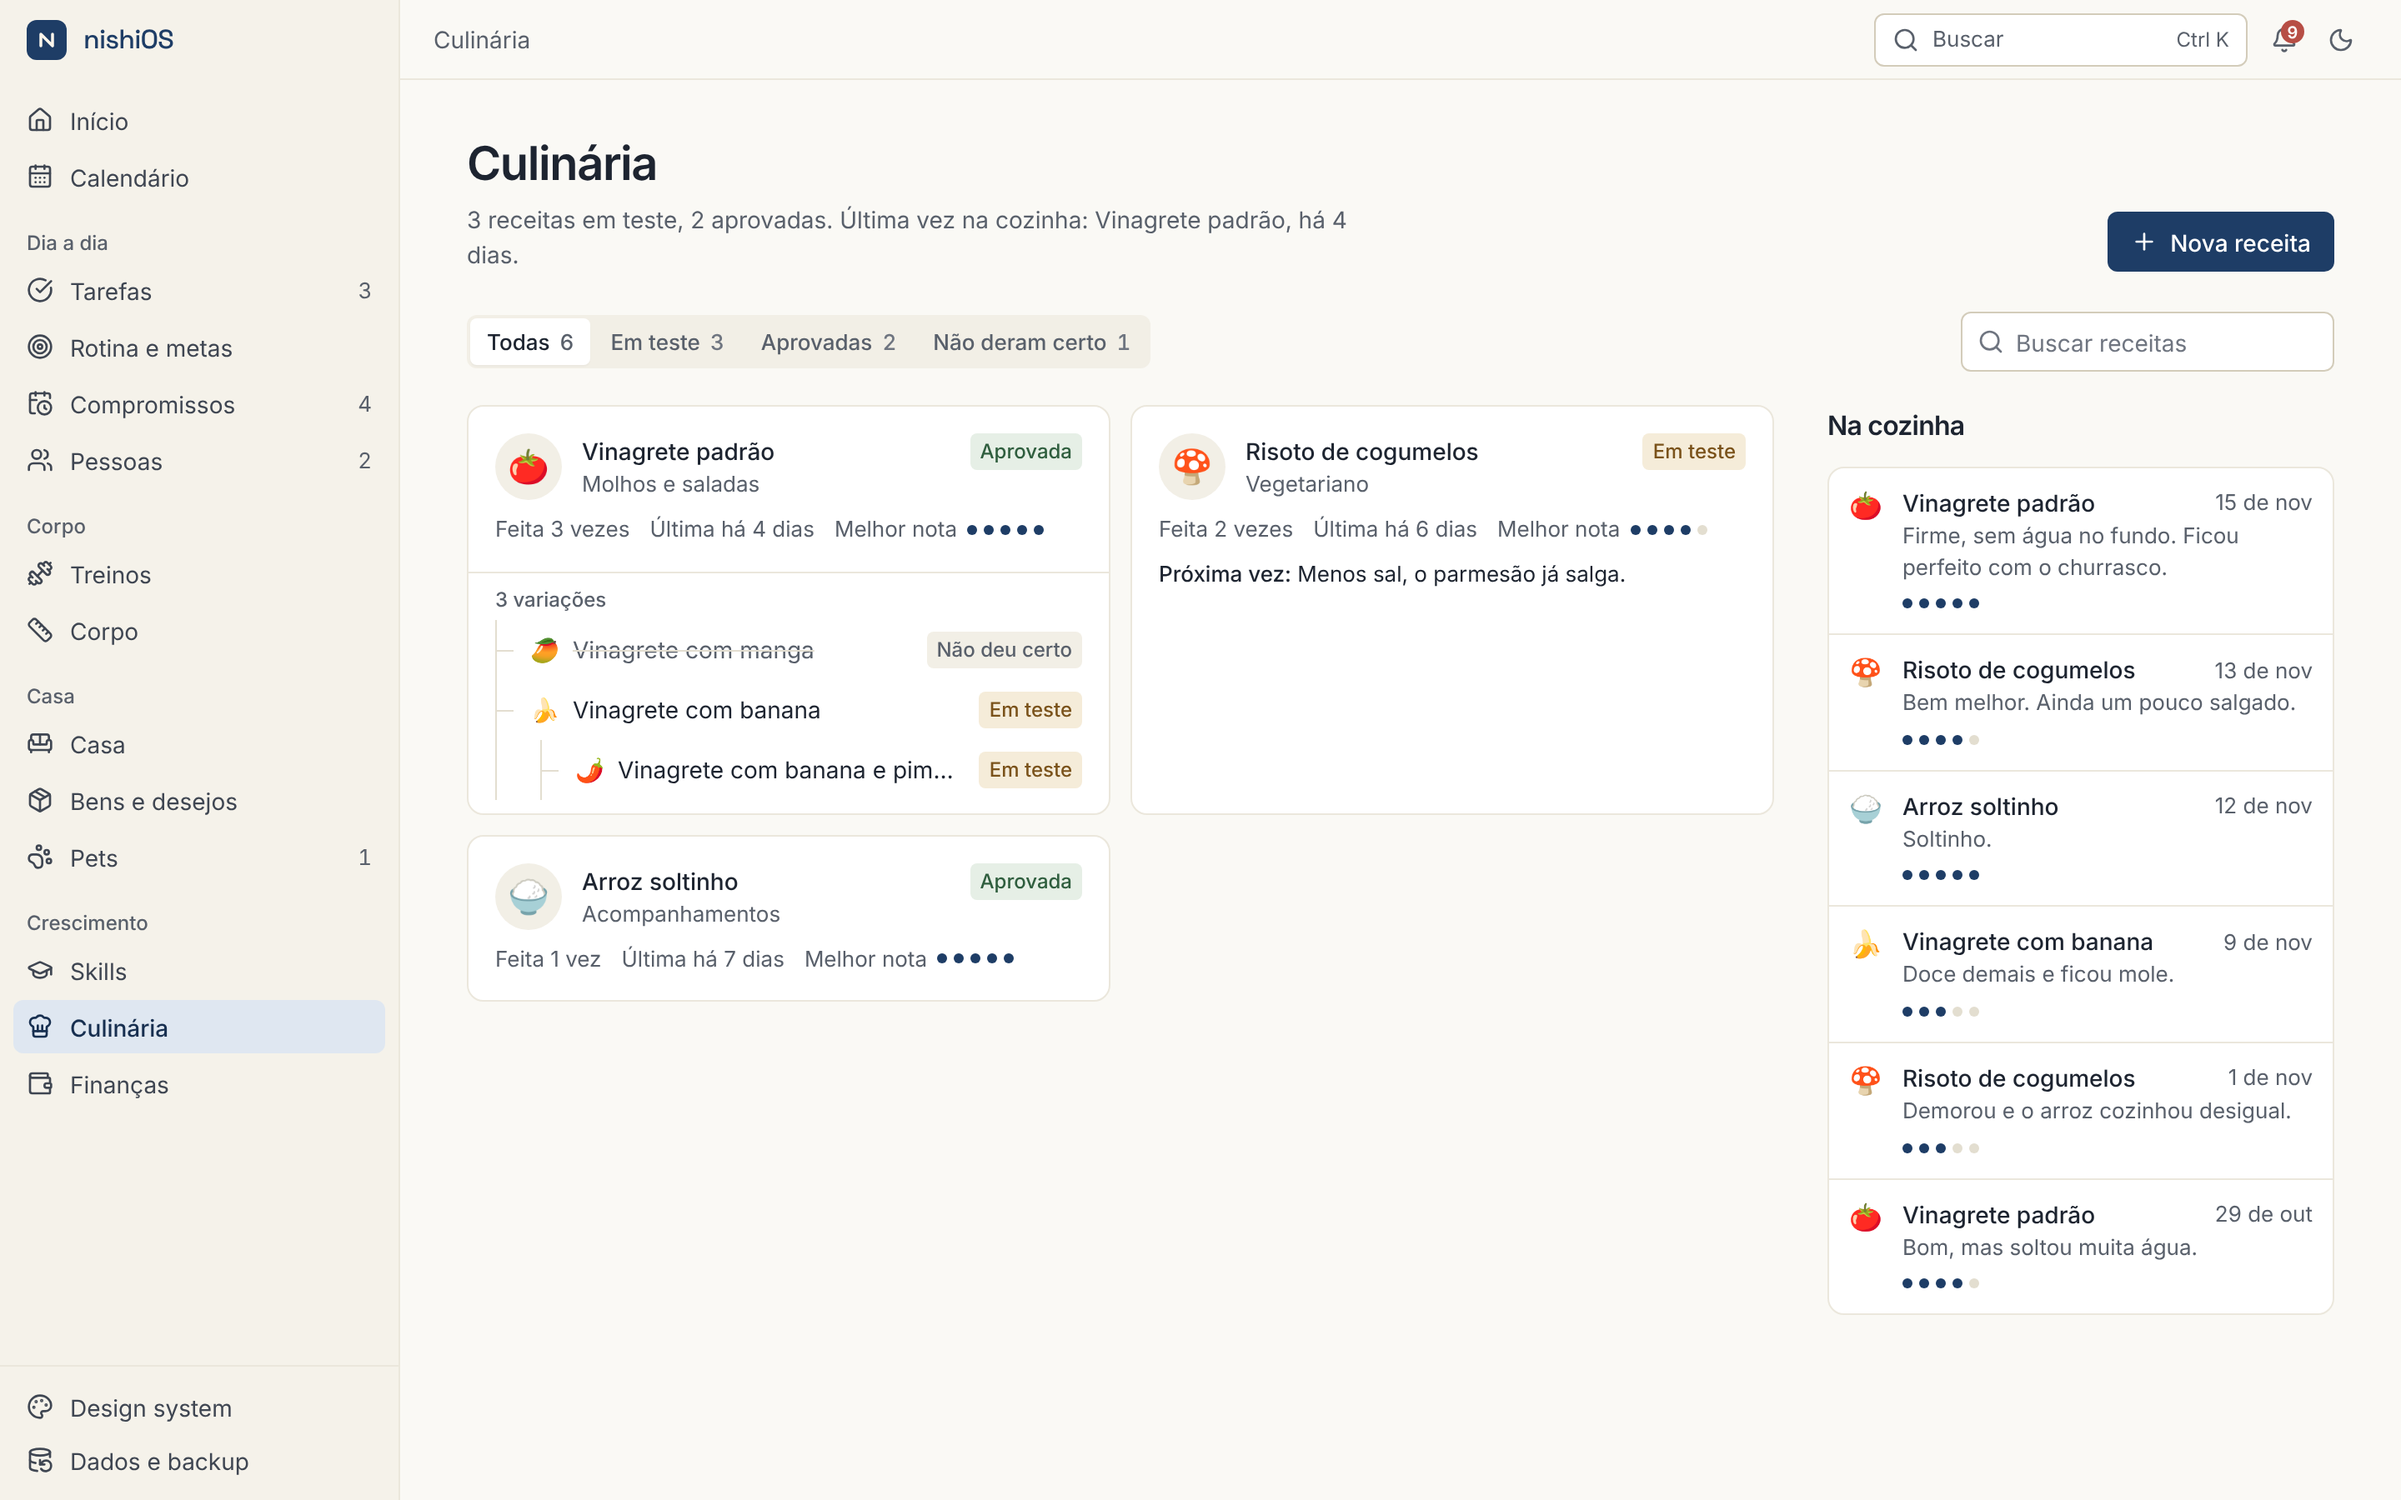
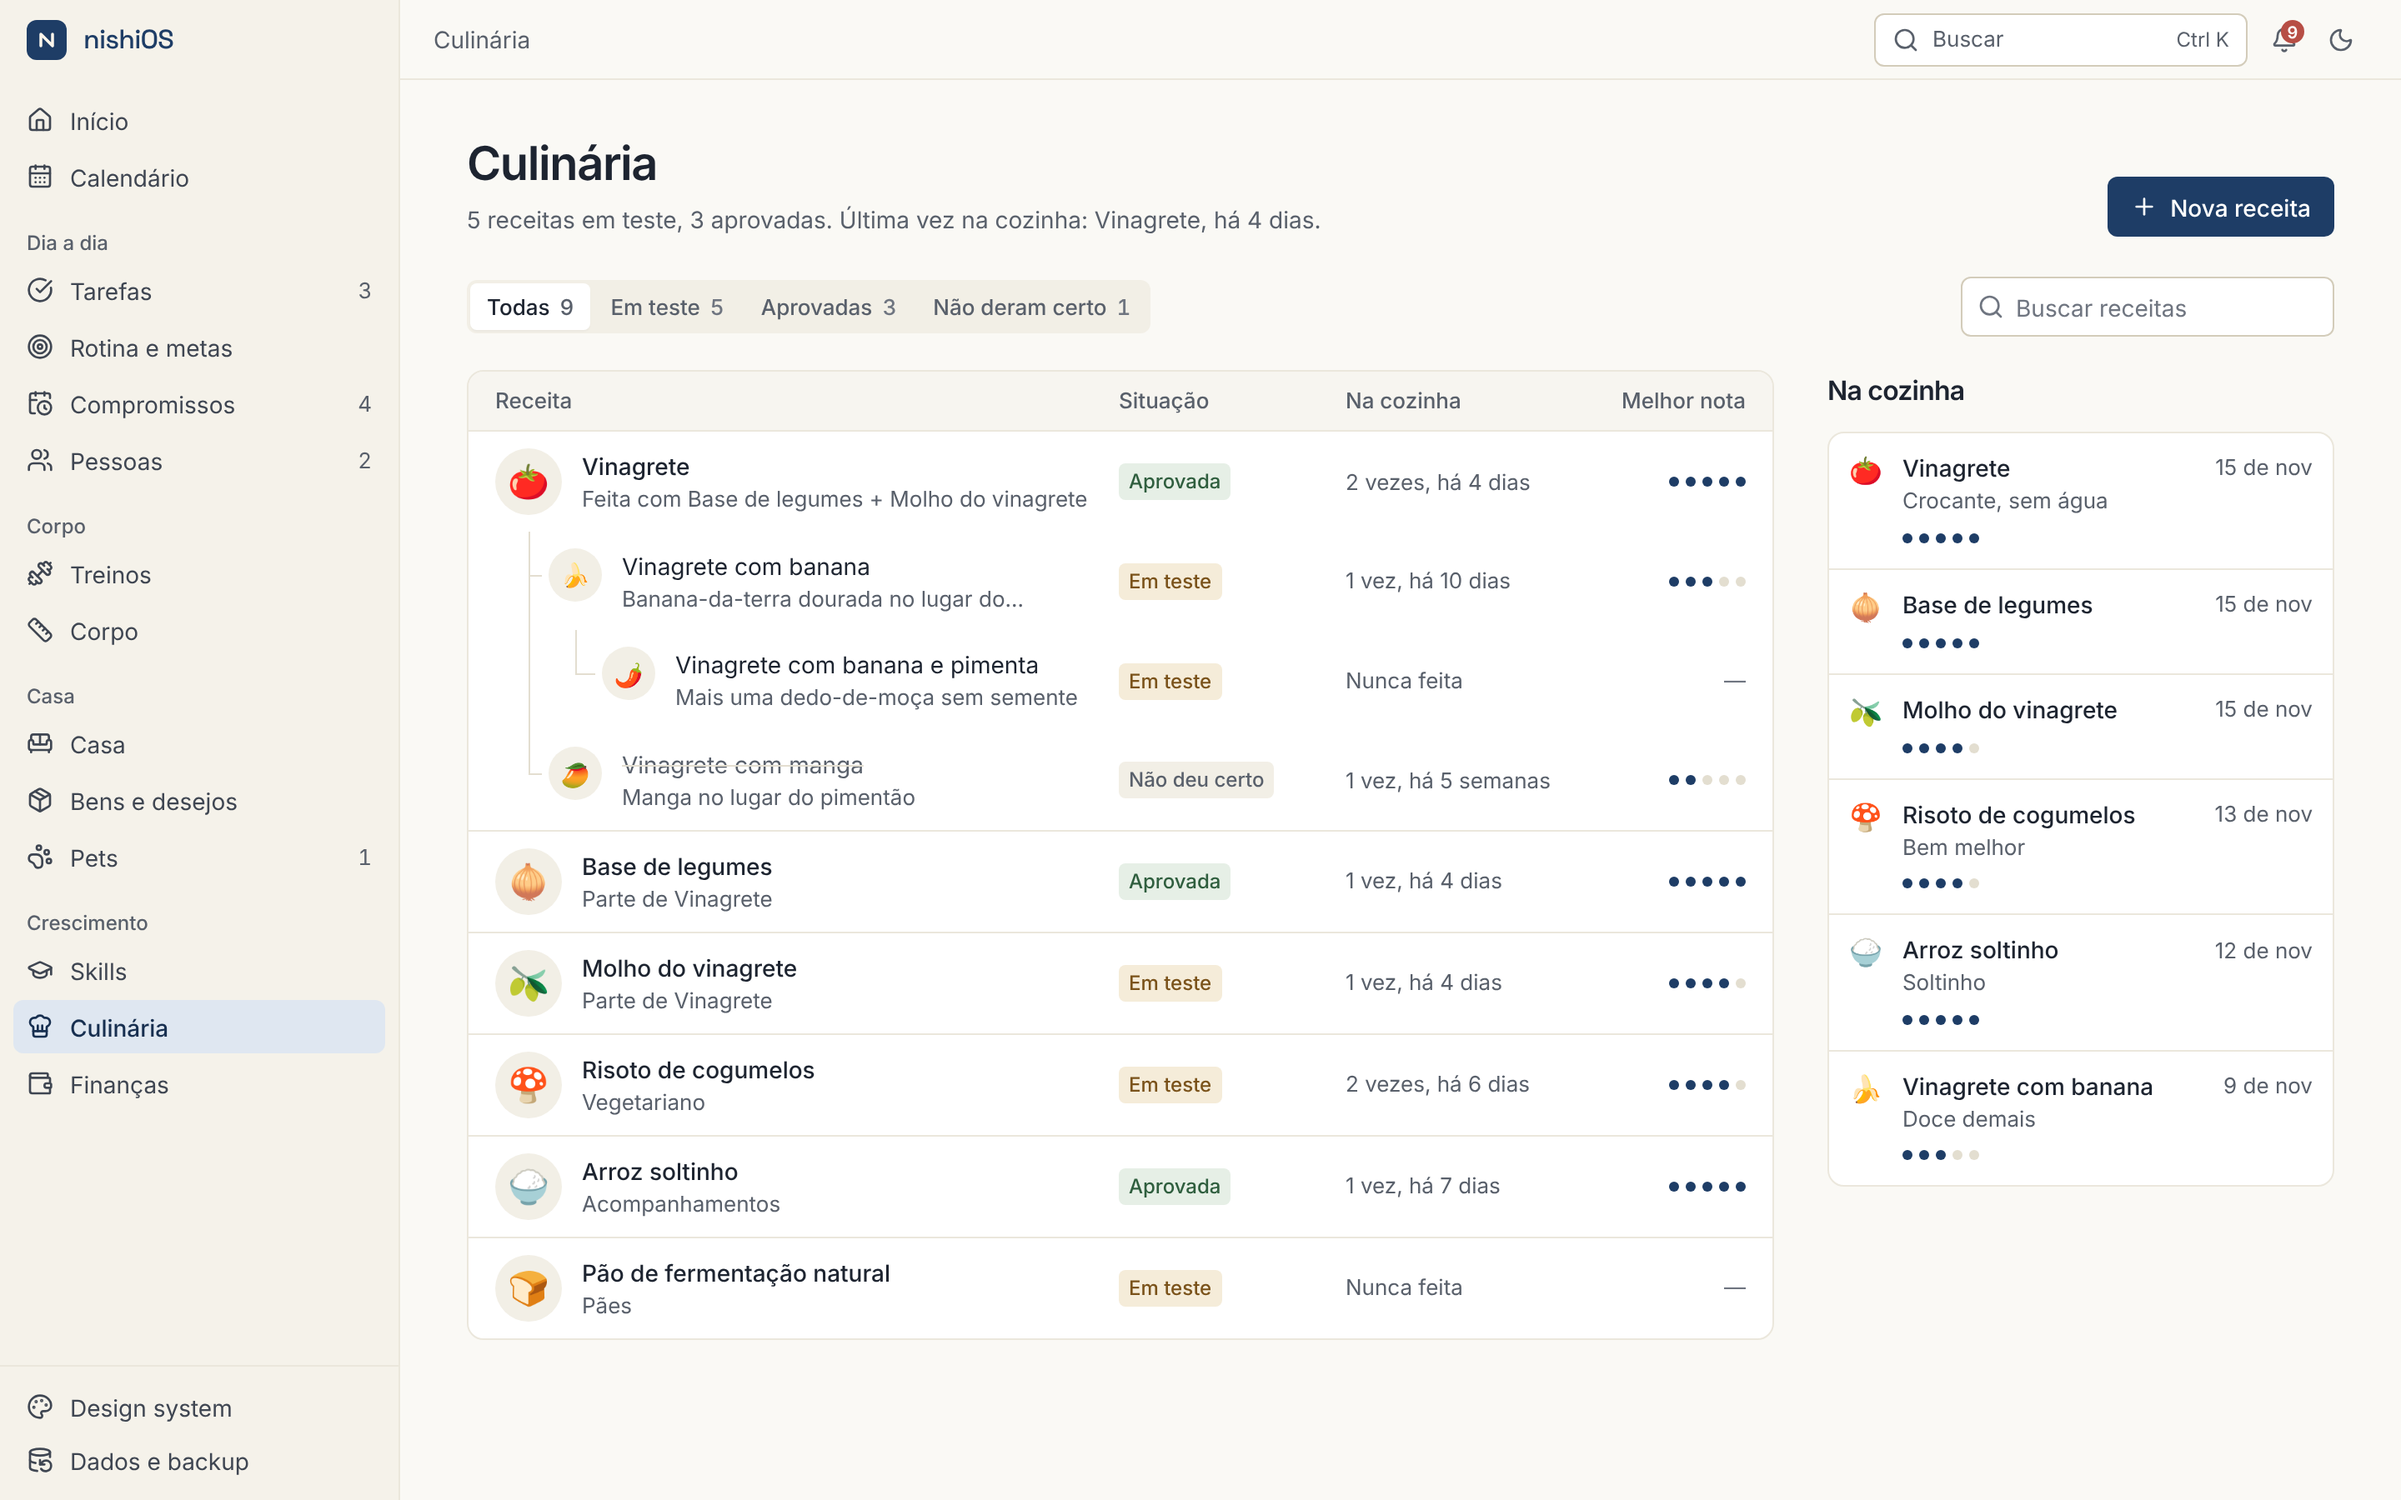
Culinária: lista em tabela, com as variações em árvore dentro de cada receita
Claude-Session: https://claude.ai/code/session_01CPBcsotghdx3fryCDb3DTs

diff --git a/src/modules/culinaria/CulinariaPage.tsx b/src/modules/culinaria/CulinariaPage.tsx
@@ -12,8 +12,7 @@ import { cn } from "@/lib/cn";
 import { shortDate, today } from "@/lib/dates";
 import { plural } from "@/lib/format";
 import { daysAgoLabel } from "@/modules/treinos/logic";
-import { FamilyTree } from "./FamilyTree";
-import { bestRating, family, partsOf, usedIn, lastCooked, matches, nextTip, roots, STATUS_META, STATUS_ORDER } from "./logic";
+import { bestRating, childrenOf, family, lastCooked, matches, partsOf, roots, STATUS_META, STATUS_ORDER, usedIn } from "./logic";
 import { RecipeDetail } from "./RecipeDetail";
 import { StartForm, type StartState } from "./RecipeForms";
 import { useCulinaria } from "./store";
@@ -138,17 +137,11 @@ function RecipeList() {
                 }}
               />
             ) : (
-              <ul className="grid content-start gap-3 xl:grid-cols-2">
-                {shown.map(({ root, members }) => (
-                  <FamilyCard
-                    key={root.id}
-                    root={root}
-                    variations={members.length - 1}
-                    recipes={recipes}
-                    dim={filtering ? (r) => !visible(r) : undefined}
-                  />
-                ))}
-              </ul>
+              <RecipeTable
+                families={shown.map((f) => f.root)}
+                recipes={recipes}
+                dim={filtering ? (r) => !visible(r) : undefined}
+              />
             )}
 
             <aside className="min-w-0">
@@ -197,73 +190,121 @@ function RecipeList() {
   );
 }
 
-function FamilyCard({
-  root,
-  variations,
-  recipes,
-  dim,
-}: {
-  root: Recipe;
-  variations: number;
-  recipes: Recipe[];
-  dim?: (r: Recipe) => boolean;
-}) {
-  const meta = STATUS_META[root.status];
-  const count = root.attempts.length;
-  const last = lastCooked(root);
-  const best = bestRating(root);
-  const tip = nextTip(root);
-  const parts = partsOf(recipes, root);
-  const hosts = usedIn(recipes, root.id);
+interface Row {
+  recipe: Recipe;
+  depth: number;
+  /** Para cada nível acima, se ainda vêm irmãos depois (a linha vertical continua). */
+  rails: boolean[];
+  last: boolean;
+}
+
+/** Cada família vira um bloco: a receita base e, embaixo, as variações em árvore. */
+function flatten(recipes: Recipe[], root: Recipe): Row[] {
+  const rows: Row[] = [];
+  const walk = (r: Recipe, depth: number, rails: boolean[], last: boolean, seen: string[]) => {
+    rows.push({ recipe: r, depth, rails, last });
+    const kids = childrenOf(recipes, r.id).filter((k) => !seen.includes(k.id));
+    kids.forEach((k, i) => walk(k, depth + 1, depth === 0 ? [] : [...rails, !last], i === kids.length - 1, [...seen, r.id]));
+  };
+  walk(root, 0, [], true, []);
+  return rows;
+}
+
+/** Recuo de cada nível e o centro do ícone, em rem, para desenhar as linhas da árvore. */
+const pad = (depth: number) => 1 + depth * 2;
+const center = (depth: number) => pad(depth) + (depth === 0 ? 1.25 : 1);
+
+const COLS = "md:grid-cols-[minmax(0,1fr)_7.5rem_8.5rem_5.5rem]";
+
+function RecipeTable({ families, recipes, dim }: { families: Recipe[]; recipes: Recipe[]; dim?: (r: Recipe) => boolean }) {
   return (
-    <li className="flex min-w-0 flex-col rounded-lg border border-border bg-surface transition-colors duration-(--motion-fast) hover:border-border-strong">
+    <div className="min-w-0 overflow-hidden rounded-lg border border-border bg-surface">
+      <div className={cn("hidden border-b border-border bg-surface-muted/60 px-4 py-2 text-sm font-medium text-muted-foreground md:grid md:gap-4", COLS)}>
+        <span>Receita</span>
+        <span>Situação</span>
+        <span>Na cozinha</span>
+        <span className="text-right">Melhor nota</span>
+      </div>
+      <ul>
+        {families.map((root) => (
+          <li key={root.id} className="border-b border-border last:border-b-0">
+            <ul>
+              {flatten(recipes, root).map((row) => (
+                <RecipeRow key={row.recipe.id} row={row} recipes={recipes} dimmed={dim?.(row.recipe) ?? false} />
+              ))}
+            </ul>
+          </li>
+        ))}
+      </ul>
+    </div>
+  );
+}
+
+function RecipeRow({ row, recipes, dimmed }: { row: Row; recipes: Recipe[]; dimmed: boolean }) {
+  const { recipe: r, depth } = row;
+  const meta = STATUS_META[r.status];
+  const count = r.attempts.length;
+  const last = lastCooked(r);
+  const best = bestRating(r);
+  const parts = partsOf(recipes, r);
+  const hosts = usedIn(recipes, r.id);
+  const discarded = r.status === "discarded";
+  const sub =
+    depth > 0 && r.change
+      ? r.change
+      : parts.length > 0
+        ? `Feita com ${parts.map((p) => p.recipe.name).join(" + ")}`
+        : hosts.length > 0
+          ? `Parte de ${hosts.map((h) => h.name).join(", ")}`
+          : r.category;
+  return (
+    <li>
       <Link
-        to={`/culinaria?r=${root.id}`}
-        className={cn("flex flex-col gap-2 rounded-t-lg p-4 hover:bg-surface-hover", dim?.(root) && "opacity-45", variations === 0 && "rounded-b-lg")}
+        to={`/culinaria?r=${r.id}`}
+        className={cn(
+          "relative grid grid-cols-[minmax(0,1fr)_auto] items-center gap-x-4 gap-y-1 py-2.5 pr-4 transition-colors duration-(--motion-fast) hover:bg-surface-hover",
+          COLS,
+          dimmed && "opacity-45",
+        )}
+        style={{ paddingLeft: `${pad(depth)}rem` }}
       >
-        <span className="flex items-start gap-3">
-          <span className="flex size-10 shrink-0 items-center justify-center rounded-full bg-surface-muted text-xl leading-none">{root.icon}</span>
+        {depth > 0 && (
+          <>
+            {/* Ligação com a receita de cima, como numa árvore; a linha segue enquanto houver irmãs embaixo. */}
+            <span aria-hidden className="absolute top-0 w-px bg-border-strong" style={{ left: `${center(depth - 1)}rem`, height: row.last ? "1.625rem" : "100%" }} />
+            <span aria-hidden className="absolute top-[1.625rem] h-px bg-border-strong" style={{ left: `${center(depth - 1)}rem`, width: `${pad(depth) - center(depth - 1) - 0.25}rem` }} />
+            {row.rails.map((on, i) =>
+              on ? <span key={i} aria-hidden className="absolute inset-y-0 w-px bg-border-strong" style={{ left: `${center(i)}rem` }} /> : null,
+            )}
+          </>
+        )}
+        <span className="flex min-w-0 items-start gap-3">
+          <span
+            className={cn(
+              "flex shrink-0 items-center justify-center rounded-full bg-surface-muted leading-none",
+              depth === 0 ? "size-10 text-xl" : "size-8 text-base",
+            )}
+          >
+            {r.icon}
+          </span>
           <span className="min-w-0 flex-1">
-            <span className="block truncate font-medium">{root.name || "Sem nome"}</span>
-            <span className="block truncate text-sm text-muted-foreground">{root.category}</span>
-          </span>
-          <Badge tone={meta.tone} className="shrink-0">
-            {meta.label}
-          </Badge>
-        </span>
-        <span className="flex flex-wrap items-center gap-x-3 gap-y-1 text-sm text-muted-foreground">
-          <span>{count === 0 ? "Nunca feita" : `Feita ${plural(count, "vez", "vezes")}`}</span>
-          {last && <span>Última {daysAgoLabel(last)}</span>}
-          {best > 0 && (
-            <span className="inline-flex items-center gap-1.5">
-              Melhor nota <LevelDots value={best} label="Melhor nota" />
+            <span className={cn("line-clamp-2 md:line-clamp-1 md:block", depth === 0 && "font-medium", discarded && "text-muted-foreground line-through decoration-border-strong")}>
+              {r.name || "Sem nome"}
             </span>
-          )}
+            <span className="line-clamp-2 text-sm text-muted-foreground md:line-clamp-1">{sub}</span>
+          </span>
         </span>
-        {parts.length > 0 && (
-          <span className="truncate text-sm">
-            <span className="font-medium">Feita com:</span> {parts.map((p) => p.recipe.name).join(" + ")}
-          </span>
-        )}
-        {hosts.length > 0 && (
-          <span className="truncate text-sm text-muted-foreground">Parte de {hosts.map((h) => h.name).join(", ")}</span>
-        )}
-        {tip && (
-          <span className="line-clamp-2 text-sm">
-            <span className="font-medium">Próxima vez:</span> {tip}
-          </span>
-        )}
+        <span className="row-span-2 self-center justify-self-end md:row-span-1 md:justify-self-start">
+          <Badge tone={meta.tone}>{meta.label}</Badge>
+        </span>
+        <span className={cn("col-start-1 truncate text-sm text-muted-foreground md:col-start-auto md:pl-0", depth === 0 ? "pl-[3.25rem]" : "pl-[2.75rem]")}>
+          {count === 0 ? "Nunca feita" : `${plural(count, "vez", "vezes")}, ${daysAgoLabel(last)}`}
+          {best > 0 && <LevelDots value={best} label="Melhor nota" className="ml-2 md:hidden" />}
+        </span>
+        <span className="hidden justify-self-end md:inline-flex">
+          {best > 0 ? <LevelDots value={best} label="Melhor nota" /> : <span className="text-sm text-subtle-foreground">—</span>}
+        </span>
       </Link>
-      {variations > 0 && (
-        <div className="border-t border-border px-2 pt-2 pb-2">
-          <p className="px-2 pb-1 text-xs font-medium text-muted-foreground">
-            {plural(variations, "variação", "variações")}
-          </p>
-          <div className="-ml-1.5">
-            <FamilyTree recipes={recipes} root={root} showRoot={false} dim={dim} />
-          </div>
-        </div>
-      )}
     </li>
   );
 }

diff --git a/README.md b/README.md
@@ -124,7 +124,7 @@ Outros comandos: `npm run build` (checa os tipos e gera a versão final em `dist
   - **Partes** (receitas compostas): uma receita pode ser feita de outras, como o Vinagrete, que é a Base de legumes mais o Molho. "Adicionar parte" liga uma receita que já existe ou cria uma nova, com "Quanto vai" (1 receita, metade...). A receita mostra cada parte com os ingredientes dela; a parte mostra "Usada em". Cada parte tem as próprias tentativas e variações, e o app não deixa formar laço (o molho não pode usar o vinagrete que usa o molho). Variações copiam as partes.
   - **Tentativas**: cada vez que cozinhou, com data, nota de 0 a 5, como fez, como ficou e o que mudar na próxima vez. O último "para a próxima vez" aparece em destaque na receita e ao registrar a próxima tentativa.
   - **Variações**: "Criar variação" nasce da receita aberta já com os ingredientes e o modo de fazer dela, e guarda o que muda (Vinagrete padrão, depois Vinagrete com banana, depois com banana e pimenta). A família aparece em árvore na lista e na receita. Uma tentativa pode "Virar variação", e "Variação de" muda a receita de lugar na árvore. Excluir uma receita passa as variações dela para a de cima.
-  - A lista mostra as famílias pela atividade mais recente, com filtro por situação, busca (também por ingrediente) e "Na cozinha", as últimas tentativas. As tentativas entram no calendário (camada Culinária) e o Início mostra a última vez na cozinha e as receitas em teste. Fica em `?r=<id>` na URL.
+  - A lista é uma tabela: cada receita base em uma linha, com as variações embaixo, recuadas e ligadas por linhas de árvore, e colunas de situação, última vez na cozinha e melhor nota (no celular, viram duas linhas por receita). Ela mostra as famílias pela atividade mais recente, com filtro por situação, busca (também por ingrediente) e "Na cozinha", as últimas tentativas. As tentativas entram no calendário (camada Culinária) e o Início mostra a última vez na cozinha e as receitas em teste. Fica em `?r=<id>` na URL.
 
 ![Culinária](docs/screenshots/culinaria-receita.png)
 
